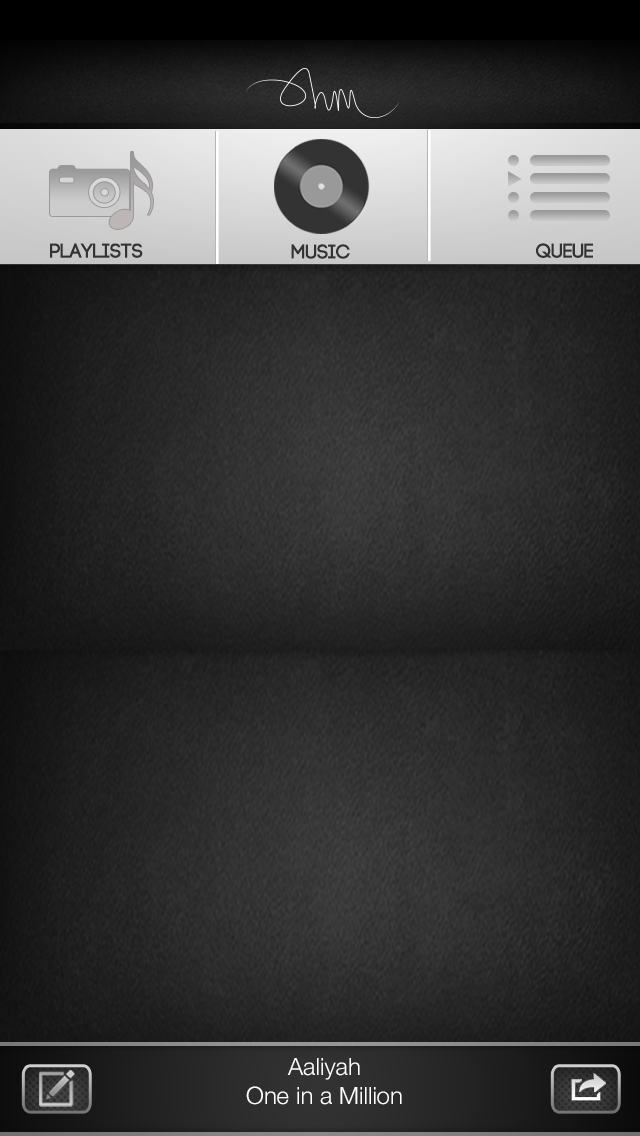
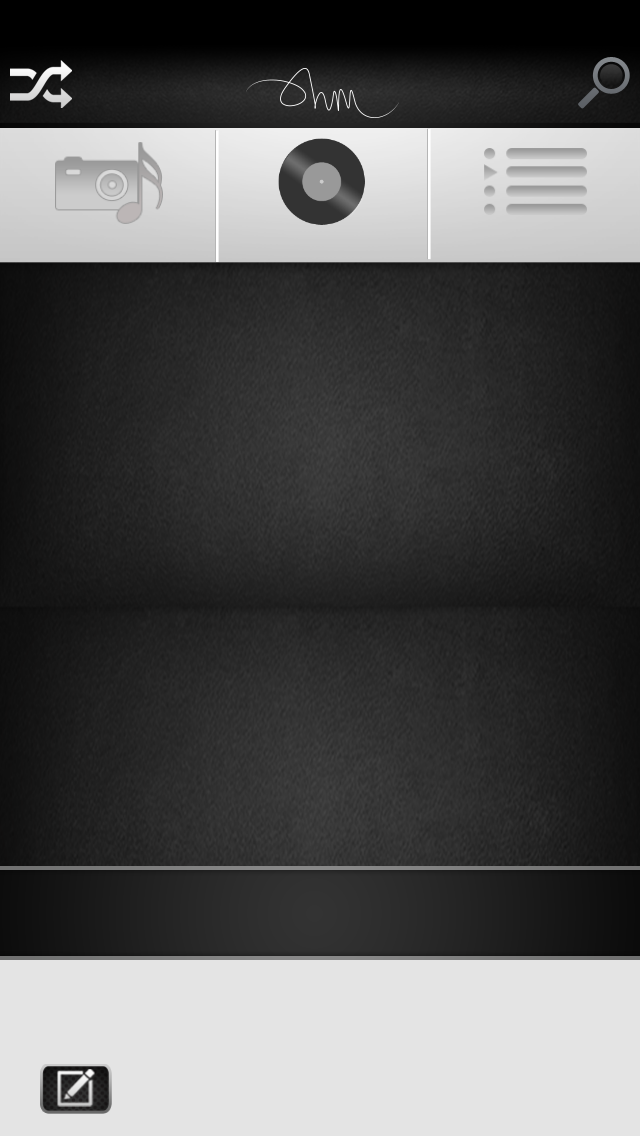
Update the now playing view controller so that it can be conditionally compiled to generate launch images. Note: the Default-568h@2x.png file is broken again...

diff --git a/OhmPlayer3/OhmPlayer3/NowPlayingViewController.m b/OhmPlayer3/OhmPlayer3/NowPlayingViewController.m
@@ -20,6 +20,9 @@
 #import "SongsTableViewSupport.h"
 #import "NowPlayingTutorialViewController.h"
 
+// Turn this on to create a launch image of the main screen...
+#define LAUNCH_IMAGE_SUPPORT 0
+
 @interface NowPlayingViewController (ForwardDeclarations)
 
 - (void) updateCurrentPlayingItem;
@@ -54,6 +57,9 @@ static NSString* const USER_DEFAULTS_NOW_PLAYING_TUTORIAL_WAS_SEEN = @"USER_DEFA
 @synthesize doubleTapRecognizer;
 @synthesize shuffleButton;
 @synthesize tutorialController;
+@synthesize playlistButtonLabel;
+@synthesize musicButtonLabel;
+@synthesize queueButtonLabel;
 
 - (void)didReceiveMemoryWarning
 {
@@ -628,6 +634,20 @@ static NSString* const USER_DEFAULTS_NOW_PLAYING_TUTORIAL_WAS_SEEN = @"USER_DEFA
                         forState:UIControlStateNormal];
 	
 	[super viewWillAppear:animated];
+    
+#if LAUNCH_IMAGE_SUPPORT
+    // Remove text from the launch screen.
+    
+    self.playlistButtonLabel.text = @"";
+    self.musicButtonLabel.text = @"";
+    self.queueButtonLabel.text = @"";
+    
+    // Remove the status bar. Note: UIKit will adjust the height of the view's frame after it's loaded
+    // but before it appears. In the viewWillAppear: method, we need to adjust the view's frame to
+    // accomodate for the missing status bar.
+    
+    [[UIApplication sharedApplication] setStatusBarHidden:YES withAnimation:UIStatusBarAnimationNone];
+#endif
 }
 
 - (void) viewWillDisappear:(BOOL)animated
@@ -644,6 +664,31 @@ static NSString* const USER_DEFAULTS_NOW_PLAYING_TUTORIAL_WAS_SEEN = @"USER_DEFA
 	[self setUpPlaybackUpdateTimer];
 
 	[super viewDidAppear:animated];
+    
+#if LAUNCH_IMAGE_SUPPORT
+    // Shift the main view down to make room for this missing status bar. Also shrink the height of the view so
+    // that controls at the bottom are not moved offscreen.
+    
+    static CGFloat const HEIGHT_OF_IPHONE_STATUS_BAR = 20; // Note: the height of the status bar is not available when it's hidden...
+    static CGFloat const WIDTH_OF_IPHONE_SCREEN = 320;
+    
+    CGRect frame = self.view.frame;
+    frame.origin.y += HEIGHT_OF_IPHONE_STATUS_BAR;
+    frame.size.height -= HEIGHT_OF_IPHONE_STATUS_BAR;
+    self.view.frame = frame;
+    
+    // Hide the white background revealed by the missing status bar.
+    
+    const CGRect statusBarFrame = CGRectMake(0, 0, WIDTH_OF_IPHONE_SCREEN, HEIGHT_OF_IPHONE_STATUS_BAR);
+    
+    UIView* blackPanel = [[UIView alloc] initWithFrame:statusBarFrame];
+    blackPanel.backgroundColor = [UIColor blackColor];
+    
+    UIView* win = self.view.window;
+    NSParameterAssert(win);
+    
+    [win addSubview:blackPanel];
+#endif
 }
 
 - (void) viewDidDisappear:(BOOL)animated

diff --git a/OhmPlayer3/OhmPlayer3/NowPlayingViewController.h b/OhmPlayer3/OhmPlayer3/NowPlayingViewController.h
@@ -28,6 +28,10 @@
 @property (strong, nonatomic) IBOutlet UISlider *playbackTimeSlider;
 @property (strong, nonatomic) IBOutlet UIButton *shuffleButton;
 
+@property (strong, nonatomic) IBOutlet UILabel* playlistButtonLabel;
+@property (strong, nonatomic) IBOutlet UILabel* musicButtonLabel;
+@property (strong, nonatomic) IBOutlet UILabel* queueButtonLabel;
+
 @property (strong, nonatomic) IBOutlet UIView* albumArtView;
 @property (strong, nonatomic) IBOutlet UIView* addToQueueControl;
 @property (strong, nonatomic) IBOutlet UIView* popUpPlayerControls;
